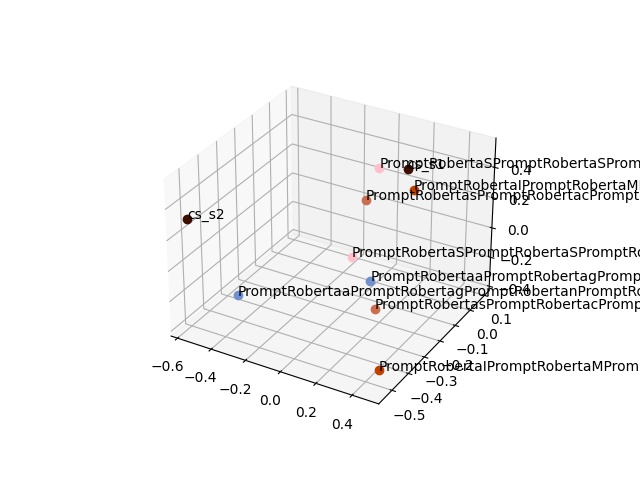
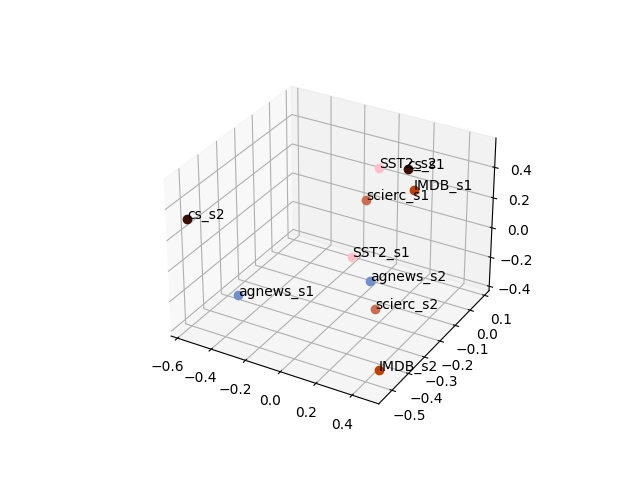
update

Changed region(s): [[0.375, 0.5, 1.0, 0.6562], [0.5625, 0.3125, 1.0, 0.4375], [0.5938, 0.75, 1.0, 0.7812]]

diff --git a/draw_cuda_mlmprompt_by_acc.py b/draw_cuda_mlmprompt_by_acc.py
@@ -82,7 +82,7 @@ for MODEL_1 in ["agnewsPromptRoberta_mlm_","cs_wikiPromptRoberta_mlm_","IMDBProm
 
         name_1 = MODEL_1.split("_")[0]
         if "PromptRoberta" in name_1:
-            name_1 = name_1.replace("","PromptRoberta")
+            name_1 = name_1.replace("PromptRoberta","")
         task_map[counter] = name_1+"_"+S_1
         counter+=1
 
